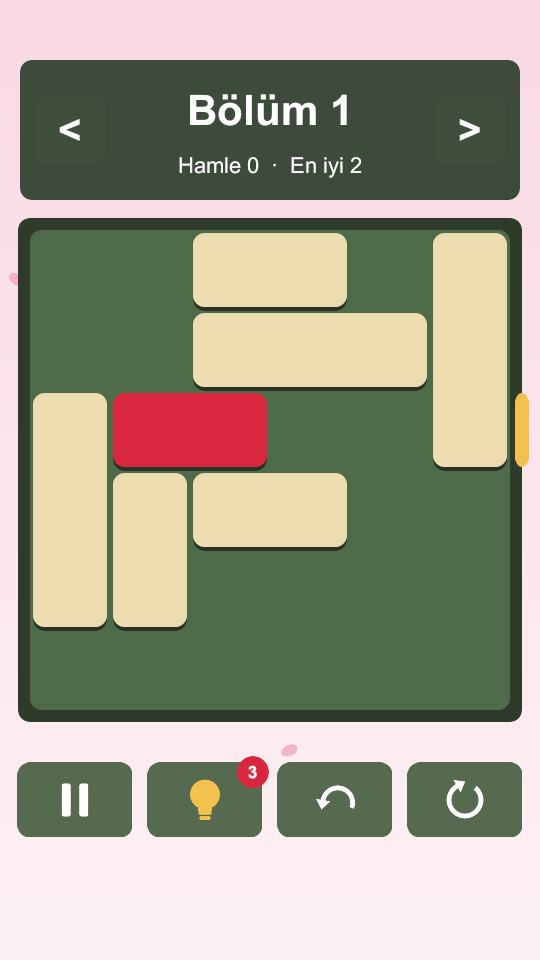
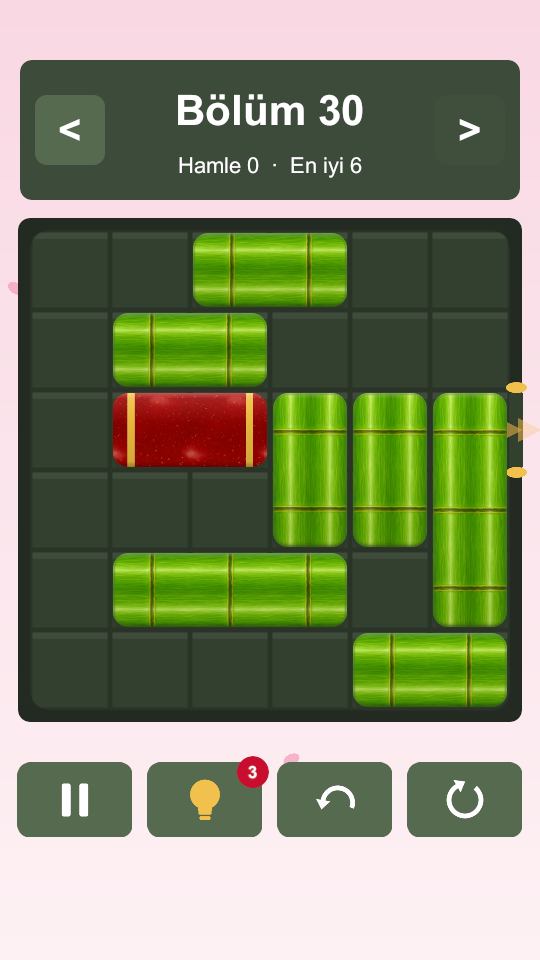
docs: README — world block art, red-block exit, sound, new screenshots

diff --git a/README.md b/README.md
@@ -14,13 +14,15 @@ in English and Turkish.
 ## Features
 
 - **500 original levels**, generated and verified by the game's own solver — from 5 moves to 20, and every one needs real planning: no level can be solved by just pushing each block out of the red one's way.
-- **5 worlds**, one every 100 levels: Japanese Garden, Egyptian Desert, Tropical Island, Arctic Glaciers, Neon City — each with its own palette and animated background (falling petals, pyramids, waves, snow, a neon skyline).
+- **5 worlds**, one every 100 levels: Japanese Garden, Egyptian Desert, Tropical Island, Arctic Glaciers, Neon City — each with its own blocks (bamboo, carved sandstone, sea glass, ice, neon circuitry), its own red block, palette and animated background (falling petals, pyramids, waves, snow, a neon skyline).
 - **1–3 stars** per level based on moves versus the optimal solution; unlocks, best stars and hints are saved on the device.
 - **Hints** that play the next optimal move, **undo** and **restart**.
-- **Celebration**: confetti, a pop-in "Puzzle solved" panel with stars appearing one by one, and a "New world unlocked!" screen.
+- **A red block with personality**: a light sweeps across it while you play; when the way is clear it winds up, dashes out with a stretch and a trail, and the exit gate flashes as it passes.
+- **Celebration**: confetti, a pop-in "Puzzle solved" panel with stars ringing in one by one, and a "New world unlocked!" screen.
+- **Sound**: 10 original effects synthesized from scratch in code (block snap, exit whoosh, star bells, solved jingle, taps, hint, undo, new world), with an on/off setting.
 - **English and Turkish**, picked from the device language and switchable in Settings.
 - **Ads (Google AdMob)**: a banner on the main menu only, an interstitial every 5 solved levels or 200 seconds (only on the player's tap after a solve, never mid-puzzle) and an optional rewarded ad for a hint — with Google UMP consent and Apple App Tracking Transparency.
-- **No third-party art**: every block, icon, star, confetti piece and background decoration is drawn in code.
+- **Original art only**: icons, stars, confetti, bevel lighting and background decor are drawn in code; the block surfaces are seamless textures I generated with AI image generation and own. No asset packs, no third-party sprites — and deliberately no wood, so it looks like nothing else in the genre.
 
 ## How it works
 
@@ -29,9 +31,17 @@ in English and Turkish.
 | **Puzzle core** (`Assets/_Game/Core`, plain C#, no Unity dependency) | `Board` (move legality, win check), `BoardSolver` (breadth-first search over a packed 64-bit state; also powers hints), `GameSession` (moves, undo, restart, hints), `PuzzleDifficulty`, `StarRating`, `AdPolicy`, `LevelCodec` (36-character level strings). |
 | **Level generation** | `StateCluster` explores every position reachable from a random board and labels each with its distance to a solved position; `LevelSetGenerator` picks positions at exactly the move counts a difficulty curve asks for. Move count alone isn't difficulty, so for each level it compares 12 candidates with `PuzzleDifficulty` — *detours* (moves beyond the obvious "clear each blocker once" plan, i.e. blocker-of-a-blocker moves), reversals and solver search effort — keeps the most demanding one and rejects any with no detour. Seeded, so the same settings always produce the same 500 levels. Run from the editor: *Blocktrotter › Generate Levels*. |
 | **App & screens** (`Assets/_Game/Runtime`) | One scene; screens (main menu, worlds, level grid, game, settings, world unlocked) are built in code under a safe-area-aware canvas. |
-| **Data-driven tuning** | `GameConfig`, `ThemeDefinition` ×5, `AdConfig`, `LevelDatabase` ScriptableObjects — gameplay and feel values live in assets, not code. |
+| **Look & feel** | `BlockSkins` paints every block face once per theme, size and orientation (texture sampling with mips, rounded corners, bevel light, per-style accents); `BoardView` drives the red block's wind-up/dash/trail exit and the gate; `SoundPlayer` mixes effects on a small voice pool. |
+| **Data-driven tuning** | `GameConfig`, `ThemeDefinition` ×5, `SoundConfig`, `AdConfig`, `LevelDatabase` ScriptableObjects — gameplay, feel, art and volume live in assets, not code. |
 | **Ads** | `IAdService` with an editor stand-in; the AdMob implementation sits in an optional assembly that compiles only when the Google Mobile Ads package is installed. |
-| **Tests** (`Assets/Tests/EditMode`) | 74 NUnit tests: board rules, solver, difficulty metric, generator determinism, every one of the 500 levels solved, replayed and checked for a detour, progress saving, ad pacing, localization tables. |
+| **Tests** (`Assets/Tests/EditMode`) | 75 NUnit tests: board rules, solver, difficulty metric, generator determinism, every one of the 500 levels solved, replayed and checked for a detour, progress saving, ad pacing, localization tables, every sound wired. |
+
+<p align="center">
+  <img src="docs/screenshots/world-desert.png" width="200" alt="Egyptian Desert: carved sandstone blocks">
+  <img src="docs/screenshots/world-island.png" width="200" alt="Tropical Island: sea-glass blocks and a life-ring red block">
+  <img src="docs/screenshots/world-arctic.png" width="200" alt="Arctic Glaciers: ice blocks">
+  <img src="docs/screenshots/world-neon.png" width="200" alt="Neon City: glowing circuit blocks">
+</p>
 
 <p align="center">
   <img src="docs/screenshots/worlds.png" width="200" alt="World select">
